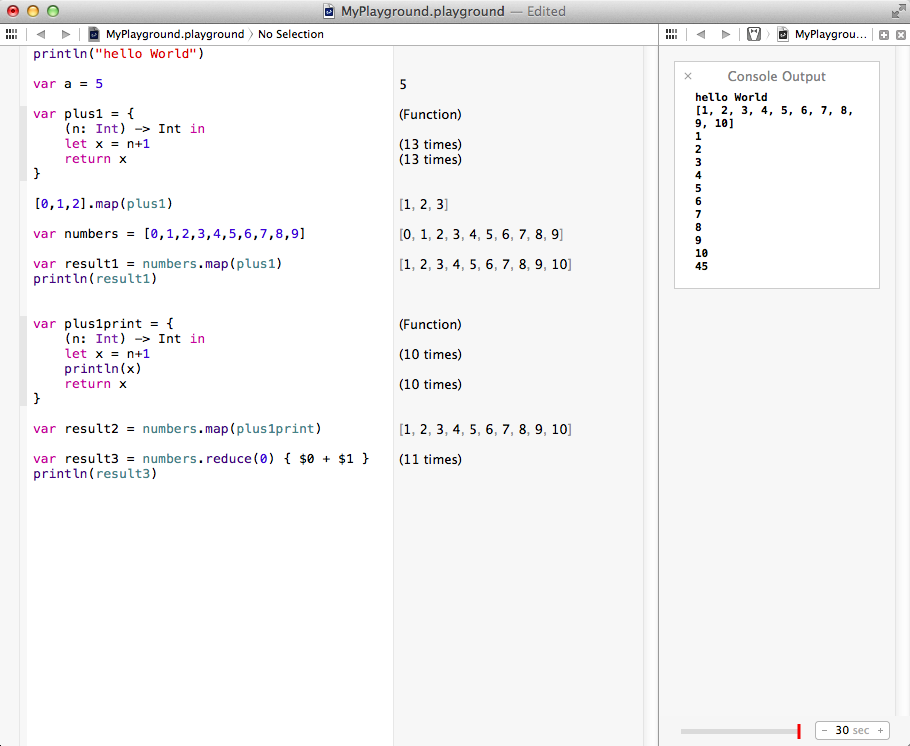
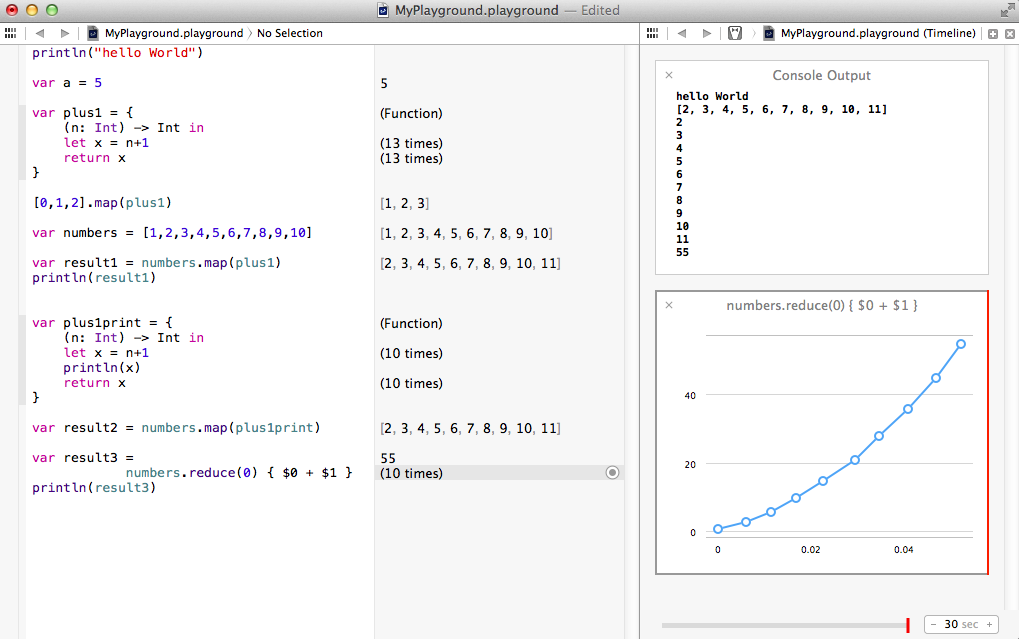
commit

diff --git a/contents/entries/entry20140611/entry.md b/contents/entries/entry20140611/entry.md
@@ -1,10 +1,192 @@
-## SwiftでiOS開発を関数型（宣言型）プログラミングへパラダイムシフトしよう
-### KenOKABE tech blog
-###[←コンテンツ](/contents/entries/entry0/entry.html)
+## Swiftで脱アルゴリズム！iOS開発を関数型（宣言型）プログラミングへパラダイムシフトしてみる
+
+
+#### KenOKABE tech blog
+####[←ブログコンテンツ](http://kenokabe.github.io//contents/entries/entry0/entry.html)
+
+####Appleが新プログラミング言語 Swift を、iOSおよびOS Xアプリ開発用に提供しました。
+この記事では、新言語Swiftプログラミングが既存のObjective-Cとは抜本的に異なるコーディングスタイルが可能になった事、そしてその背景となる技術的潮流について解説したいと思います。
+
+##新言語Swiftのスペックハイライト
+[AppleDeveloperのSwift紹介ページ](https://developer.apple.com/swift/)によると、
+
+####Modern
+Swift is the result of the latest research on programming languages, combined with decades of experience building Apple platforms. Named parameters brought forward from Objective-C are expressed in a clean syntax that makes APIs in Swift even easier to read and maintain. Inferred types make code cleaner and less prone to mistakes, while modules eliminate headers and provide namespaces. Memory is managed automatically, and you don’t even need to type semi-colons.
+
+Swift has many other features to make your code more expressive:
+
+- Closures unified with function pointers
+- Tuples and multiple return values
+- Generics
+- Fast and concise iteration over a range or collection
+- Structs that support methods, extensions, protocols.
+- Functional programming patterns, e.g.: map and filter
+
+(和訳)
+####モダン
+Swiftは最新のプログラミング言語研究の成果で、Appleプラットフォームを構築してきた数十年の蓄積と統合されています。
+Objective-Cから継承されるパラメータはSwiftのAPIでは、よりクリーンなシンタックスで表現されており、可読性とメンテナンス性が向上しています。
+匿名型はコードをクリーンにし、ミスを減らします。またヘッダを不要にし、ネームスペースを提供します。
+メモリは自動管理され、文末にセミコロンは不要です。
+
+- 関数ポインタと統合されたクロージャ
+- タプルおよび複数戻り値
+- Generic
+- rangeまたはcollectionにおける高速で簡潔な反復
+- 構造体でメソッド、エクステンション、プロトコルをサポート
+- 関数型プログラミングパターン（マップ、フィルター等）
+
+![](http://kenokabe.github.io/contents/entries/entry20140611/img/swift.png)
+
+
+##ファースト・インプレッション
+クリーン。JavaScript（CoffeeScript）に非常によく似ています。
+簡潔な表記が可能になっており、プログラミング言語の記述力が段違いに向上しています（その理由をこの記事で説明します）。
+
+メモリ管理の自動化は、これまでサードパーティのXamarin(Monotouch),Unity,J2ObjCを利用することで可能でしたが、ようやく公式でもサポートされたことになります。
+この点も含め「モダン」なのですが、新言語Swiftのモダンな言語仕様として一番重要なのは、関数型（宣言型）プログラミングのパラダイムが全面的に採用されていることでしょう。
+上記ハイライトリストは、すべて関数型プログラミングを実現するための言語仕様として必須であると言えます。
+
+##関数型(宣言型)プログラミング
+ここで、しつこく関数型(宣言型)と書いてるのは、「関数型」というのが言語仕様として現れた特徴的な表現手法である一方で、「宣言型」というのはより広義のプログラミングパラダイムで「命令型」言語と対立する概念であることを補足して明示しておきたいからです。
+
+既存のObjective-Cというのは、基本的に関数型言語ではなく、命令型プログラミング言語です。
+簡潔な宣言型プログラミングを実現するのは、極めて難しい言語仕様になっています。
+
+C#やJavaなども基本命令形プログラミング言語ですが、昨今の「モダン」な関数型(宣言型)プログラミングパラダイムの盛り上がりによる進化圧で、関数型プログラミングの特徴を取り入れるべく言語仕様の激しい改定が繰り返されてきています(C#3.0以降、Java8)。
+
+##宣言型プログラミングとは「脱アルゴリズム」
+
+命令型プログラミングとは、
+命令型プログラミング（めいれいがたプログラミング、Imperative Programming）とは、計算機科学において宣言型プログラミングの対となる概念であり、計算をプログラム状態を変化させる文の列で記述するプログラミングパラダイムの一種。自然言語の命令法がなすべき行動への指令を表現するのとよく似た方法で、命令型プログラムはコンピュータが実行すべき命令列で構成される。命令型プログラミングに従ったプログラミング言語を命令型（プログラミング）言語と呼ぶ。一般に命令型プログラミングは、手続き型プログラミングと同義として扱われる。
+命令型プログラミングは、宣言型プログラミング（関数型や論理型言語など）と対照的である。Haskellなどの関数型プログラミング言語では、プログラムは文の並びではないし、命令型言語が持つような広域状態を持たない。
+（Wikipedia）
+
+機械語は命令形プログラムです。より抽象化した高級なC言語も命令形パラダイムをそのまま継承し、C++、Objective-Cもその系譜です。
+
+命令形プログラミングでは、命令を時系列の実行順に羅列し繰り返し組み合わせる必要があります。
+これが「アルゴリズム」の設計です。
+アルゴリズムは命令ステップの明確なリストで、命令列は、先頭から最後尾に向かって逐次的に順序良く実行されるように記述しなければなりません（フロー）。
+アルゴリズムを視覚化したグラフのことを「フローチャート」と呼びます。
+フローを制御するためには、フローの状態を管理する変数が必要になります。
+我々はこの一連の作業を当然のように「プログラミング」と読ぶわけですが、正確には「命令形プログラミング」です。
+命令形プログラミングのアルゴリズム設計はフロー制御のための多くの状態変数の管理も含め実に煩雑な作業です。
+人間とはミスをする存在であるし、当然見通しも悪くなり、メンテナンスも大変になります。
+ここに「バグ」が侵入する余地が生じます。
+一例をあげましょう。
+
+###【問題】１から１０までの数字を全部足して表示するコードを書け。（命令形アプローチ）
+
+```
+var s = 0;
+for(var n=1; n<=10; n++)
+  {
+    s = s + n;
+  }
+console.log(s);
+//55
+```
+(javascript)
+
+命令形プログラミング脳の発想
+
+「１から１０までの数字を全部足して表示する」という「命令の流れ(フロー)」を上手にアルゴリズム設計すれば良いと思う。
+
+フローチャートはこうなるでしょう。
+sに1から10までの数字を足しこむアルゴリズム
+![](http://localhost:18080/contents/entries/entry20140611/img/flowchart.png)
+
+こういうとても簡単な問題であっても上記のフローチャートは複雑に見えます。
+その理由は、
+
+- 条件判断がある。
+- 分岐がある。
+- 繰り返し処理がある。
+- なんだか変数が多い。
+
+そもそも「１から１０までの数字を全部足す」という問題には、変数はありません。
+しかし、コードを書くときにはフロー制御するための`n`と`s`という2つの状態変数が必要になってしまい、それぞれの状態変数はフローが1回ループする度に刻々と変化して、`s`は`n`の変化に依存関係にある、適切に条件判断、分岐させる、などなどプログラマはフローの状況を完全に把握してコントロールしながらコードを設計しているのです。
+プログラマーは脳内で、まるでRPGダンジョンのようなそのフローチャートに自分自身を投入して、そのフローを辿り変数の変化をウォッチしながらシミュレーションするでしょう。
+プログラムが大規模で複雑になるにつれて、フローチャート（ダンジョン）は入り組み、わけがわからなくなり迷いやすくなります。
+フローの制御、変数の管理は大変になり、結果バグが発生する可能性が高くなり、デバッグも難しくなっていきます。
+これが、命令型プログラミングが抱える本質的で致命的な問題点です。
+
+これは、プログラミングでは当然で不可避で仕方がない事のように思えます。
+しかし、実はそうではありません。
+機械語の系譜である命令形プログラミングを捨て、より高度に抽象化された「宣言型プログラミング」へパラダイム転換すれば良いのです。
+
+###【問題】１から１０までの数字を全部足して表示するコードを書け。（宣言形アプローチ）
+
+```
+var numbers = _([1, 2, 3, 4, 5, 6, 7, 8, 9, 10]);
+var plus = function(a, b)
+{
+  return (a + b);
+};
+
+var result = numbers
+             .reduce(plus);
+
+console.log(result);
+//55
+```
+(javascript + 関数型ライブラリ=undersocre/lazy.js)
+
+
+```
+(->> (1 2 3 4 5 6 7 8 9 10)
+     (reduce +)
+     (println)
+)
+//55
+```
+(Clojure)
+
+宣言型プログラミング脳の考え方
+「１から１０までの数字を全部足して表示する」ために「プログラムの流れ(フロー)」を設計するということはしない。フローを考えたり設計することは、そのフロー制御のための余計な変数が増えるし、その都度ミス、バグの介入の余地が出てしまう。
+状態変数を適時コントロールして条件判断して分岐やループさせるフローの臨機応変の処理方法ではなく、対象の性質などをたった1回バシッと宣言してそれでキッチリ終わらせてしまう。
+
+「１から１０までの数字」というのは、フローの中のループで1つずつ加算してその都度用意するのではなく、一番最初に全部用意してしまう。
+そして、その全部用意したデータ（リスト）を源流として、データ（リスト/コレクション）を順次操作していき、河口の最後でデータを出力して終了。
+条件分岐やループはさせず、上流から下流まで1回こっきり流して終わる。
+そのようなデータの加工の流れを静的に宣言しておく。
+
+[1, 2, 3, 4, 5, 6, 7, 8, 9, 10]
+というリスト/コレクション `numbers` にたいして
+「足していく」という関数であるplus(+)を引数として与え
+.reduce(plus)
+という操作をすると、
+1+2+3+4+5+6+7+8+9+10
+となるので、今度はその結果の
+55
+というデータを
+console.log あるいは　(println)
+で出力する。
+終わり、となります。
+「１から１０までの数字を全部足して表示する」という問題で、
+↓「１から１０までの数字を」
+↓「全部足して」
+↓「表示する」
+
+と、問題そのものズバリ、本質的なデータの加工手順、つまり最初にデータを全部用意し、数珠つなぎで順番に加工していくとう加工手順の宣言をしていっただけで回答が得られた、という極めて簡潔で無駄のない洗練されたコードになっているのがわかると思います。
+このコードには手続き型のコードにあった、条件判断、分岐、繰り返しループ、そして`ｎ`と`ｓ`の状態変数はひとつもありません。
+つまり、それらは手続き型プログラミング脳では最低限絶対必要で不可避、と思われていたのに、関数型（宣言型）プログラミング脳では「そんなもんは一切不要」とすべて消滅してしまったのです。同時に、入り組んだフローチャートの脳内シミューレション、ダンジョンの中に没頭して迷子になるということも回避できます。
+関数型（宣言型）プログラミングでは、最初にデータを全部用意する、適時そのデータの性質を宣言していく、数珠つなぎでデータを操作していく、というふうに、源流から河口まで一回だけ流してオシマイ、簡単に全体像を俯瞰できます。
+これは、 Unix系オペレーティングシステムにおける パイプ(pipe) 、もしくは パイプライン (pipeline) や、JavaScriptで不可欠な位置を築いた JQueryのメソッドチェーン と論理的にまったく同じ構造のものです。
+素のJavaScriptがそれぞれのDOM要素にたいして繰り返しループで関数を何度も呼び出していた事にたいして、JQueryでは、$() なに（オブジェクトのリスト）のすべてをまとめて一気に、こうして（メソッド1）、ああして（メソッド2）、そうする（メソッド3）…のように、自然にチェーン連結して表現できるようになりました。
+これがまさに関数型プログラミングスタイルの強みであり、JQueryがJavaScriptの世界で圧倒的に歓迎された理由なのです。
+
+Clojureの祖先のLISPはリスト処理を意味する「list processing」に由来しています。
+関数型（宣言型）プログラミングが強力なのは、根本に数学のスーパーパワーをそのまま活かしやすい特性を有するからです。LISPそしてClojureが大きな影響を受けているHaskellなどは、言語設計の理論的基盤に 理論計算機科学や数理論理学のラムダ計算 という体系があります。 参考） 純 LISP (pure LISP)
+プログラムのフローの設計でなく、データ（リスト）や関数の定義、操作を宣言的に列挙していくという関数型（宣言型）プログラミングのスタイルはもともとこのような理論的背景があります。
+手続き型プログラミングで、多くの状態変数を伴うフローの設計というのは、所詮人間のやることなので失敗しやすいし、ミスをする、バグの温床となりますす。
+しかし、関数型（宣言型）プログラミングでは、フロー・アルゴリズムの設計ではなく、データ（リスト/コレクション）加工の宣言に注力するので、 コードが簡潔になり、メンテナンスがしやすく、バグが入り込む余地が少ない、数学的厳密性がそのままコードの妥当性に繋がりやすいのです。
+
+
+そして、Appleの新言語Swiftでは、以上のような関数型（宣言型）の脱アルゴリズムのプログラミングが出来るようになりました。
 
 
 ![](http://localhost:18080/contents/entries/entry20140611/img/swift.png)
-
 
 ```
 println("hello World")
@@ -19,7 +201,7 @@ var plus1 = {
 
 [0,1,2].map(plus1)
 
-var numbers = [0,1,2,3,4,5,6,7,8,9]
+var numbers = [1,2,3,4,5,6,7,8,9,10]
 
 var result1 = numbers.map(plus1)
 println(result1)
@@ -34,11 +216,15 @@ var plus1print = {
 
 var result2 = numbers.map(plus1print)
 
-var result3 = numbers.reduce(0) { $0 + $1 }
+var result3 =
+            numbers.reduce(0) { $0 + $1 }
 println(result3)
+
 
 ```
 
+　
 
-
-###[←コンテンツ](/contents/entries/entry0/entry.html)
+　
+ #### KenOKABE tech blog
+ ####[←ブログコンテンツ](http://kenokabe.github.io//contents/entries/entry0/entry.html)

diff --git a/contents/entries/entry1/entry.md b/contents/entries/entry1/entry.md
@@ -1,0 +1,11 @@
+## ATOM editor smooth-operator theme
+
+
+![](http://localhost:18080/contents/entries/entry1/img/smooth-operator-navy.png)
+
+![](http://localhost:18080/contents/entries/entry1/img/smooth-operator.png)
+
+![](http://localhost:18080/contents/entries/entry1/img/settings.png)
+
+
+##▲[INDEX](/contents/entries/entry0/entry.html)
